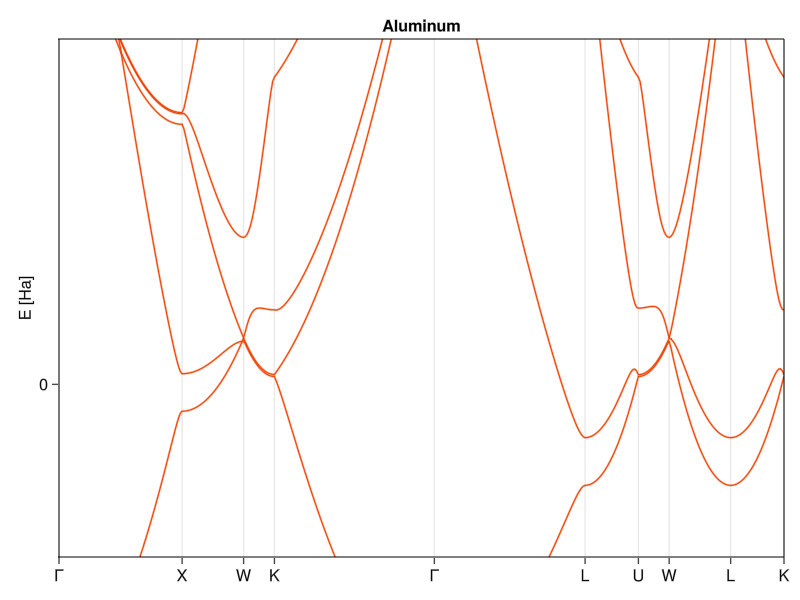
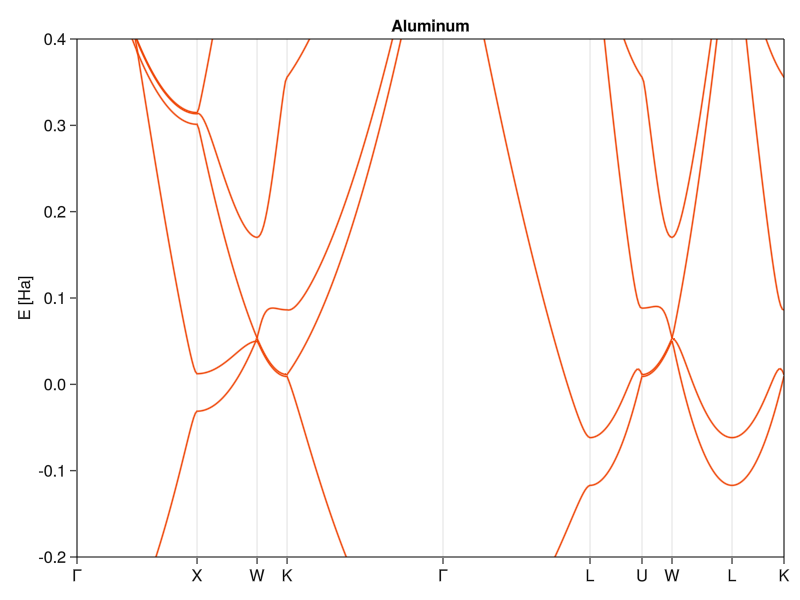
Built site for gh-pages

diff --git a/posts/cmpm3/index.html b/posts/cmpm3/index.html
@@ -507,7 +507,7 @@ Note
 <p>With that done, we can access the primitive vector matrix that, in this case, does not form an orthogonal basis, as advertised earlier:</p>
 <div class="cell" data-execution_count="13">
 <div class="sourceCode cell-code" id="cb14"><pre class="sourceCode julia code-with-copy"><code class="sourceCode julia"><span id="cb14-1"><a href="#cb14-1" aria-hidden="true" tabindex="-1"></a>graphene.lattice.R</span></code><button title="Copy to Clipboard" class="code-copy-button"><i class="bi"></i></button></pre></div>
-<div class="cell-output cell-output-display" data-execution_count="154">
+<div class="cell-output cell-output-display" data-execution_count="14">
 <pre><code>2×2 Matrix{Float64}:
   4.03901  0.0
  -2.33192  4.66384</code></pre>
@@ -515,7 +515,7 @@ Note
 </div>
 <div class="cell" data-execution_count="14">
 <div class="sourceCode cell-code" id="cb16"><pre class="sourceCode julia code-with-copy"><code class="sourceCode julia"><span id="cb16-1"><a href="#cb16-1" aria-hidden="true" tabindex="-1"></a>graphene.lattice.R[<span class="op">:</span>,<span class="fl">1</span>] <span class="op">⋅</span> graphene.lattice.R[<span class="op">:</span>,<span class="fl">2</span>] <span class="op">!=</span> <span class="fl">0</span></span></code><button title="Copy to Clipboard" class="code-copy-button"><i class="bi"></i></button></pre></div>
-<div class="cell-output cell-output-display" data-execution_count="155">
+<div class="cell-output cell-output-display" data-execution_count="15">
 <pre><code>true</code></pre>
 </div>
 </div>
@@ -531,7 +531,7 @@ Note
 <span id="cb18-8"><a href="#cb18-8" aria-hidden="true" tabindex="-1"></a>fig2ds[<span class="fl">1</span>,<span class="fl">2</span>] <span class="op">=</span> axhbns</span>
 <span id="cb18-9"><a href="#cb18-9" aria-hidden="true" tabindex="-1"></a></span>
 <span id="cb18-10"><a href="#cb18-10" aria-hidden="true" tabindex="-1"></a><span class="fu">current_figure</span>()</span></code><button title="Copy to Clipboard" class="code-copy-button"><i class="bi"></i></button></pre></div>
-<div class="cell-output cell-output-display" data-execution_count="156">
+<div class="cell-output cell-output-display" data-execution_count="16">
 <p><img src="index_files/figure-html/cell-16-output-1.png" class="img-fluid"></p>
 </div>
 </div>
@@ -571,7 +571,7 @@ Note
 <span id="cb20-8"><a href="#cb20-8" aria-hidden="true" tabindex="-1"></a>fig3d[<span class="fl">1</span>,<span class="fl">2</span>] <span class="op">=</span> axds_single</span>
 <span id="cb20-9"><a href="#cb20-9" aria-hidden="true" tabindex="-1"></a></span>
 <span id="cb20-10"><a href="#cb20-10" aria-hidden="true" tabindex="-1"></a><span class="fu">current_figure</span>()</span></code><button title="Copy to Clipboard" class="code-copy-button"><i class="bi"></i></button></pre></div>
-<div class="cell-output cell-output-display" data-execution_count="158">
+<div class="cell-output cell-output-display" data-execution_count="18">
 <p><img src="index_files/figure-html/cell-18-output-1.png" class="img-fluid"></p>
 </div>
 </div>
@@ -702,7 +702,7 @@ H(\vec{k}) = \sum_{\left\{ \vec{G}_n \right\}}\frac{1}{2} \left( \vec{k}  + \vec
 <span id="cb24-19"><a href="#cb24-19" aria-hidden="true" tabindex="-1"></a>fig_1D[<span class="fl">1</span>,<span class="fl">1</span>] <span class="op">=</span> ax_1D2</span>
 <span id="cb24-20"><a href="#cb24-20" aria-hidden="true" tabindex="-1"></a></span>
 <span id="cb24-21"><a href="#cb24-21" aria-hidden="true" tabindex="-1"></a><span class="fu">current_figure</span>()</span></code><button title="Copy to Clipboard" class="code-copy-button"><i class="bi"></i></button></pre></div>
-<div class="cell-output cell-output-display" data-execution_count="162">
+<div class="cell-output cell-output-display" data-execution_count="22">
 <p><img src="index_files/figure-html/cell-22-output-1.png" class="img-fluid"></p>
 </div>
 </div>
@@ -751,7 +751,7 @@ H(\vec{k}) = \sum_{\left\{ \vec{G}_n \right\}}\frac{1}{2} \left( \vec{k}  + \vec
 <span id="cb28-13"><a href="#cb28-13" aria-hidden="true" tabindex="-1"></a></span>
 <span id="cb28-14"><a href="#cb28-14" aria-hidden="true" tabindex="-1"></a>fig_Al_el[<span class="fl">1</span>,<span class="fl">1</span>] <span class="op">=</span> ax_Al_el</span>
 <span id="cb28-15"><a href="#cb28-15" aria-hidden="true" tabindex="-1"></a><span class="fu">current_figure</span>()</span></code><button title="Copy to Clipboard" class="code-copy-button"><i class="bi"></i></button></pre></div>
-<div class="cell-output cell-output-display" data-execution_count="166">
+<div class="cell-output cell-output-display" data-execution_count="26">
 <p><img src="index_files/figure-html/cell-26-output-1.png" class="img-fluid"></p>
 </div>
 </div>
@@ -837,7 +837,7 @@ On extra output of <code>kpath</code>
 <span id="cb31-17"><a href="#cb31-17" aria-hidden="true" tabindex="-1"></a>fig_1D_nf[<span class="fl">1</span>,<span class="fl">1</span>] <span class="op">=</span> ax_1D_nf</span>
 <span id="cb31-18"><a href="#cb31-18" aria-hidden="true" tabindex="-1"></a></span>
 <span id="cb31-19"><a href="#cb31-19" aria-hidden="true" tabindex="-1"></a><span class="fu">current_figure</span>()</span></code><button title="Copy to Clipboard" class="code-copy-button"><i class="bi"></i></button></pre></div>
-<div class="cell-output cell-output-display" data-execution_count="169">
+<div class="cell-output cell-output-display" data-execution_count="29">
 <p><img src="index_files/figure-html/cell-29-output-1.png" class="img-fluid"></p>
 </div>
 </div>
@@ -860,7 +860,7 @@ On extra output of <code>kpath</code>
 <span id="cb35-2"><a href="#cb35-2" aria-hidden="true" tabindex="-1"></a>ax_Al <span class="op">=</span> <span class="fu">Axis</span>(fig_Al, title<span class="op">=</span><span class="st">"Aluminum"</span>)</span>
 <span id="cb35-3"><a href="#cb35-3" aria-hidden="true" tabindex="-1"></a>ax_Al.xticks <span class="op">=</span> ([p.second for p <span class="op">∈</span> Alks.ppoints], </span>
 <span id="cb35-4"><a href="#cb35-4" aria-hidden="true" tabindex="-1"></a>                [<span class="fu">string</span>(p.first) for p <span class="op">∈</span> Alks.ppoints])</span>
-<span id="cb35-5"><a href="#cb35-5" aria-hidden="true" tabindex="-1"></a>ax_Al.yticks <span class="op">=</span> <span class="fl">0</span><span class="op">:</span><span class="fl">10</span></span>
+<span id="cb35-5"><a href="#cb35-5" aria-hidden="true" tabindex="-1"></a>ax_Al.yticks <span class="op">=</span> <span class="op">-</span><span class="fl">0.2</span><span class="op">:</span><span class="fl">0.1</span><span class="op">:</span><span class="fl">0.4</span></span>
 <span id="cb35-6"><a href="#cb35-6" aria-hidden="true" tabindex="-1"></a>ax_Al.ylabel <span class="op">=</span> <span class="st">"E [Ha]"</span></span>
 <span id="cb35-7"><a href="#cb35-7" aria-hidden="true" tabindex="-1"></a></span>
 <span id="cb35-8"><a href="#cb35-8" aria-hidden="true" tabindex="-1"></a><span class="fu">ylims!</span>(ax_Al, (<span class="op">-</span><span class="fl">0.2</span>,<span class="fl">0.4</span>))</span>
@@ -872,7 +872,7 @@ On extra output of <code>kpath</code>
 <span id="cb35-14"><a href="#cb35-14" aria-hidden="true" tabindex="-1"></a></span>
 <span id="cb35-15"><a href="#cb35-15" aria-hidden="true" tabindex="-1"></a>fig_Al[<span class="fl">1</span>,<span class="fl">1</span>] <span class="op">=</span> ax_Al</span>
 <span id="cb35-16"><a href="#cb35-16" aria-hidden="true" tabindex="-1"></a><span class="fu">current_figure</span>()</span></code><button title="Copy to Clipboard" class="code-copy-button"><i class="bi"></i></button></pre></div>
-<div class="cell-output cell-output-display" data-execution_count="173">
+<div class="cell-output cell-output-display" data-execution_count="33">
 <p><img src="index_files/figure-html/cell-33-output-1.png" class="img-fluid"></p>
 </div>
 </div>
@@ -1123,7 +1123,7 @@ Note
 <span id="cb48-13"><a href="#cb48-13" aria-hidden="true" tabindex="-1"></a></span>
 <span id="cb48-14"><a href="#cb48-14" aria-hidden="true" tabindex="-1"></a>fig_gr[<span class="fl">1</span>,<span class="fl">1</span>] <span class="op">=</span> ax_gr</span>
 <span id="cb48-15"><a href="#cb48-15" aria-hidden="true" tabindex="-1"></a><span class="fu">current_figure</span>()</span></code><button title="Copy to Clipboard" class="code-copy-button"><i class="bi"></i></button></pre></div>
-<div class="cell-output cell-output-display" data-execution_count="186">
+<div class="cell-output cell-output-display" data-execution_count="46">
 <p><img src="index_files/figure-html/cell-46-output-1.png" class="img-fluid"></p>
 </div>
 </div>
@@ -1169,7 +1169,7 @@ Note
 <div class="cell" data-execution_count="49">
 <div class="sourceCode cell-code" id="cb52"><pre class="sourceCode julia code-with-copy"><code class="sourceCode julia"><span id="cb52-1"><a href="#cb52-1" aria-hidden="true" tabindex="-1"></a>foo <span class="op">=</span> [<span class="fu">ψ2p</span>([i,j,k], <span class="fl">0</span>) <span class="op">|&gt;</span> abs2 for i <span class="op">∈</span> <span class="op">-</span><span class="fl">3</span><span class="op">:</span><span class="fl">0.1</span><span class="op">:</span><span class="fl">3</span>, j <span class="op">∈</span> <span class="op">-</span><span class="fl">3</span><span class="op">:</span><span class="fl">0.1</span><span class="op">:</span><span class="fl">3</span>, k <span class="op">∈</span> <span class="op">-</span><span class="fl">5</span><span class="op">:</span><span class="fl">0.1</span><span class="op">:</span><span class="fl">5</span>]</span>
 <span id="cb52-2"><a href="#cb52-2" aria-hidden="true" tabindex="-1"></a><span class="fu">contour</span>(foo, levels<span class="op">=</span><span class="fl">1</span>)</span></code><button title="Copy to Clipboard" class="code-copy-button"><i class="bi"></i></button></pre></div>
-<div class="cell-output cell-output-display" data-execution_count="190">
+<div class="cell-output cell-output-display" data-execution_count="50">
 <p><img src="index_files/figure-html/cell-50-output-1.png" class="img-fluid"></p>
 </div>
 </div>
@@ -1177,7 +1177,7 @@ Note
 <div class="cell" data-execution_count="50">
 <div class="sourceCode cell-code" id="cb53"><pre class="sourceCode julia code-with-copy"><code class="sourceCode julia"><span id="cb53-1"><a href="#cb53-1" aria-hidden="true" tabindex="-1"></a>foo <span class="op">=</span> [<span class="fu">ψ2p</span>([i,j,k], <span class="fl">1</span>) <span class="op">|&gt;</span> abs2 for i <span class="op">∈</span> <span class="op">-</span><span class="fl">5</span><span class="op">:</span><span class="fl">0.1</span><span class="op">:</span><span class="fl">5</span>, j <span class="op">∈</span> <span class="op">-</span><span class="fl">5</span><span class="op">:</span><span class="fl">0.1</span><span class="op">:</span><span class="fl">5</span>, k <span class="op">∈</span> <span class="op">-</span><span class="fl">4</span><span class="op">:</span><span class="fl">0.1</span><span class="op">:</span><span class="fl">4</span>]</span>
 <span id="cb53-2"><a href="#cb53-2" aria-hidden="true" tabindex="-1"></a><span class="fu">contour</span>(foo, levels<span class="op">=</span><span class="fl">1</span>)</span></code><button title="Copy to Clipboard" class="code-copy-button"><i class="bi"></i></button></pre></div>
-<div class="cell-output cell-output-display" data-execution_count="191">
+<div class="cell-output cell-output-display" data-execution_count="51">
 <p><img src="index_files/figure-html/cell-51-output-1.png" class="img-fluid"></p>
 </div>
 </div>
@@ -1202,7 +1202,7 @@ Note
 <div class="cell" data-execution_count="52">
 <div class="sourceCode cell-code" id="cb55"><pre class="sourceCode julia code-with-copy"><code class="sourceCode julia"><span id="cb55-1"><a href="#cb55-1" aria-hidden="true" tabindex="-1"></a>foox <span class="op">=</span> [<span class="fu">ψ2px</span>([i,j,k]) <span class="op">|&gt;</span> abs2 for i <span class="op">∈</span> <span class="op">-</span><span class="fl">5</span><span class="op">:</span><span class="fl">0.1</span><span class="op">:</span><span class="fl">5</span>, j <span class="op">∈</span> <span class="op">-</span><span class="fl">3</span><span class="op">:</span><span class="fl">0.1</span><span class="op">:</span><span class="fl">3</span>, k <span class="op">∈</span> <span class="op">-</span><span class="fl">3</span><span class="op">:</span><span class="fl">0.1</span><span class="op">:</span><span class="fl">3</span>]</span>
 <span id="cb55-2"><a href="#cb55-2" aria-hidden="true" tabindex="-1"></a><span class="fu">contour</span>(foox, levels<span class="op">=</span><span class="fl">1</span>)</span></code><button title="Copy to Clipboard" class="code-copy-button"><i class="bi"></i></button></pre></div>
-<div class="cell-output cell-output-display" data-execution_count="193">
+<div class="cell-output cell-output-display" data-execution_count="53">
 <p><img src="index_files/figure-html/cell-53-output-1.png" class="img-fluid"></p>
 </div>
 </div>
@@ -1223,7 +1223,7 @@ Note
 <span id="cb56-13"><a href="#cb56-13" aria-hidden="true" tabindex="-1"></a><span class="fu">contour!</span>(foos, levels<span class="op">=</span>[<span class="fl">4e-3</span>])</span>
 <span id="cb56-14"><a href="#cb56-14" aria-hidden="true" tabindex="-1"></a><span class="fu">hidedecorations!</span>(hybp, label<span class="op">=</span><span class="cn">false</span>)</span>
 <span id="cb56-15"><a href="#cb56-15" aria-hidden="true" tabindex="-1"></a><span class="fu">current_figure</span>()</span></code><button title="Copy to Clipboard" class="code-copy-button"><i class="bi"></i></button></pre></div>
-<div class="cell-output cell-output-display" data-execution_count="194">
+<div class="cell-output cell-output-display" data-execution_count="54">
 <p><img src="index_files/figure-html/cell-54-output-1.png" class="img-fluid"></p>
 </div>
 </div>
@@ -1249,7 +1249,7 @@ Note
 <span id="cb57-18"><a href="#cb57-18" aria-hidden="true" tabindex="-1"></a><span class="fu">contour!</span>(fooz, levels<span class="op">=</span>[<span class="fl">5e-3</span>])</span>
 <span id="cb57-19"><a href="#cb57-19" aria-hidden="true" tabindex="-1"></a><span class="fu">hidedecorations!</span>(hybp, label<span class="op">=</span><span class="cn">false</span>)</span>
 <span id="cb57-20"><a href="#cb57-20" aria-hidden="true" tabindex="-1"></a><span class="fu">current_figure</span>()</span></code><button title="Copy to Clipboard" class="code-copy-button"><i class="bi"></i></button></pre></div>
-<div class="cell-output cell-output-display" data-execution_count="195">
+<div class="cell-output cell-output-display" data-execution_count="55">
 <p><img src="index_files/figure-html/cell-55-output-1.png" class="img-fluid"></p>
 </div>
 </div>
@@ -1401,7 +1401,7 @@ Note
 <span id="cb64-21"><a href="#cb64-21" aria-hidden="true" tabindex="-1"></a></span>
 <span id="cb64-22"><a href="#cb64-22" aria-hidden="true" tabindex="-1"></a>fig_gr2[<span class="fl">1</span>,<span class="fl">1</span>] <span class="op">=</span> ax_gr2</span>
 <span id="cb64-23"><a href="#cb64-23" aria-hidden="true" tabindex="-1"></a><span class="fu">current_figure</span>()</span></code><button title="Copy to Clipboard" class="code-copy-button"><i class="bi"></i></button></pre></div>
-<div class="cell-output cell-output-display" data-execution_count="202">
+<div class="cell-output cell-output-display" data-execution_count="62">
 <p><img src="index_files/figure-html/cell-62-output-1.png" class="img-fluid"></p>
 </div>
 </div>
@@ -1492,7 +1492,7 @@ Note
 <span id="cb71-2"><a href="#cb71-2" aria-hidden="true" tabindex="-1"></a><span class="fu">ylims!</span>(<span class="fu">current_axis</span>(), (<span class="op">-</span><span class="fl">0.75</span>,<span class="fl">0.55</span>))</span>
 <span id="cb71-3"><a href="#cb71-3" aria-hidden="true" tabindex="-1"></a><span class="fu">current_axis</span>().title<span class="op">=</span><span class="st">"Graphene"</span></span>
 <span id="cb71-4"><a href="#cb71-4" aria-hidden="true" tabindex="-1"></a><span class="fu">current_figure</span>()</span></code><button title="Copy to Clipboard" class="code-copy-button"><i class="bi"></i></button></pre></div>
-<div class="cell-output cell-output-display" data-execution_count="209">
+<div class="cell-output cell-output-display" data-execution_count="69">
 <p><img src="index_files/figure-html/cell-69-output-1.png" class="img-fluid"></p>
 </div>
 </div>

diff --git a/index.html b/index.html
@@ -228,7 +228,7 @@ Tomas Polakovic
 </a>
 </div>
 </div>
-<div class="quarto-post image-right" data-index="2" data-categories="Julia,Quantum mechanics,Solid state physics" data-listing-date-sort="1666069200000" data-listing-file-modified-sort="1679077287193" data-listing-reading-time-sort="73.455">
+<div class="quarto-post image-right" data-index="2" data-categories="Julia,Quantum mechanics,Solid state physics" data-listing-date-sort="1666069200000" data-listing-file-modified-sort="1679085869213" data-listing-reading-time-sort="73.455">
 <div class="thumbnail">
 <p><a href="./posts/cmpm3/index.html"> <img src="./posts/cmpm3/thumbnail.png" class="thumnail-image"> </a></p>
 </div>
